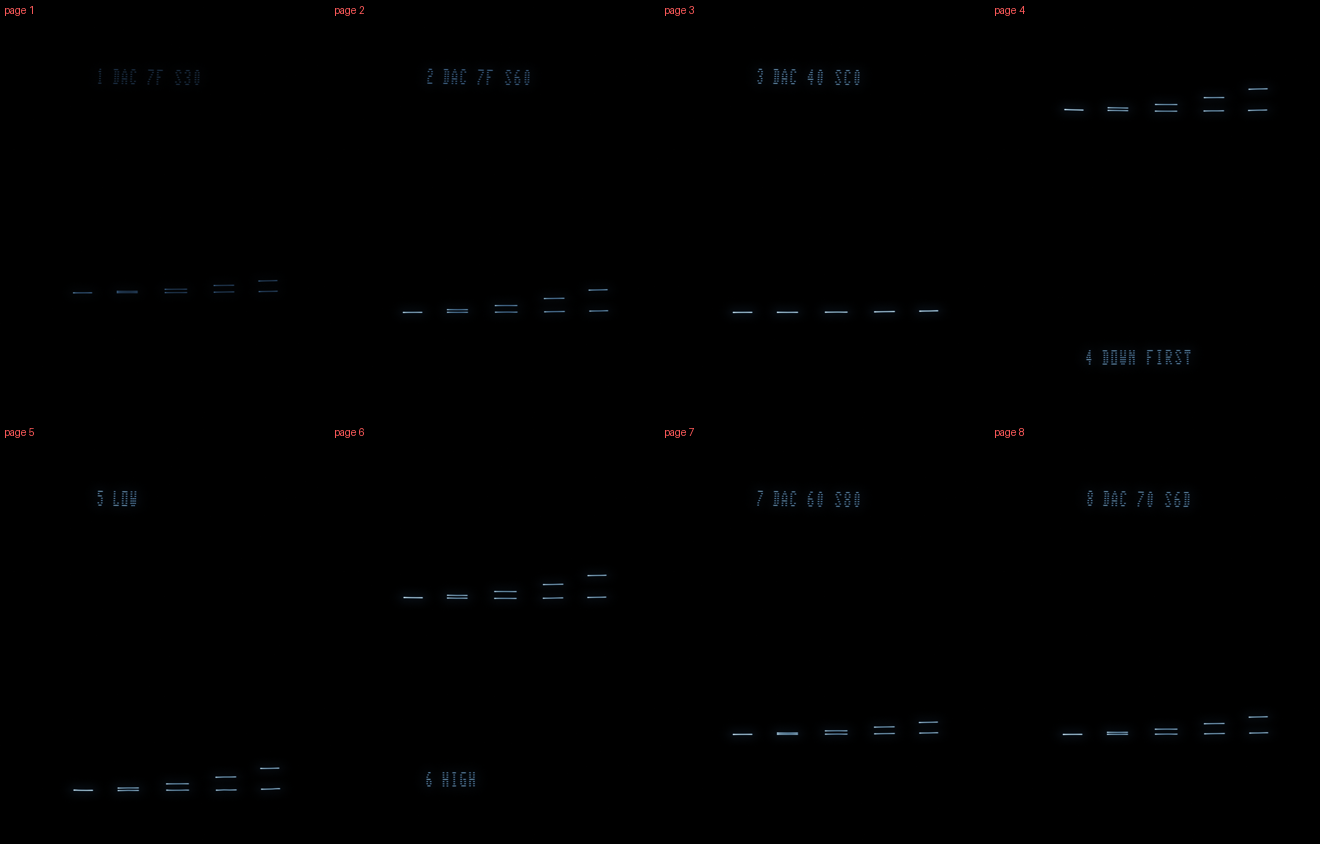
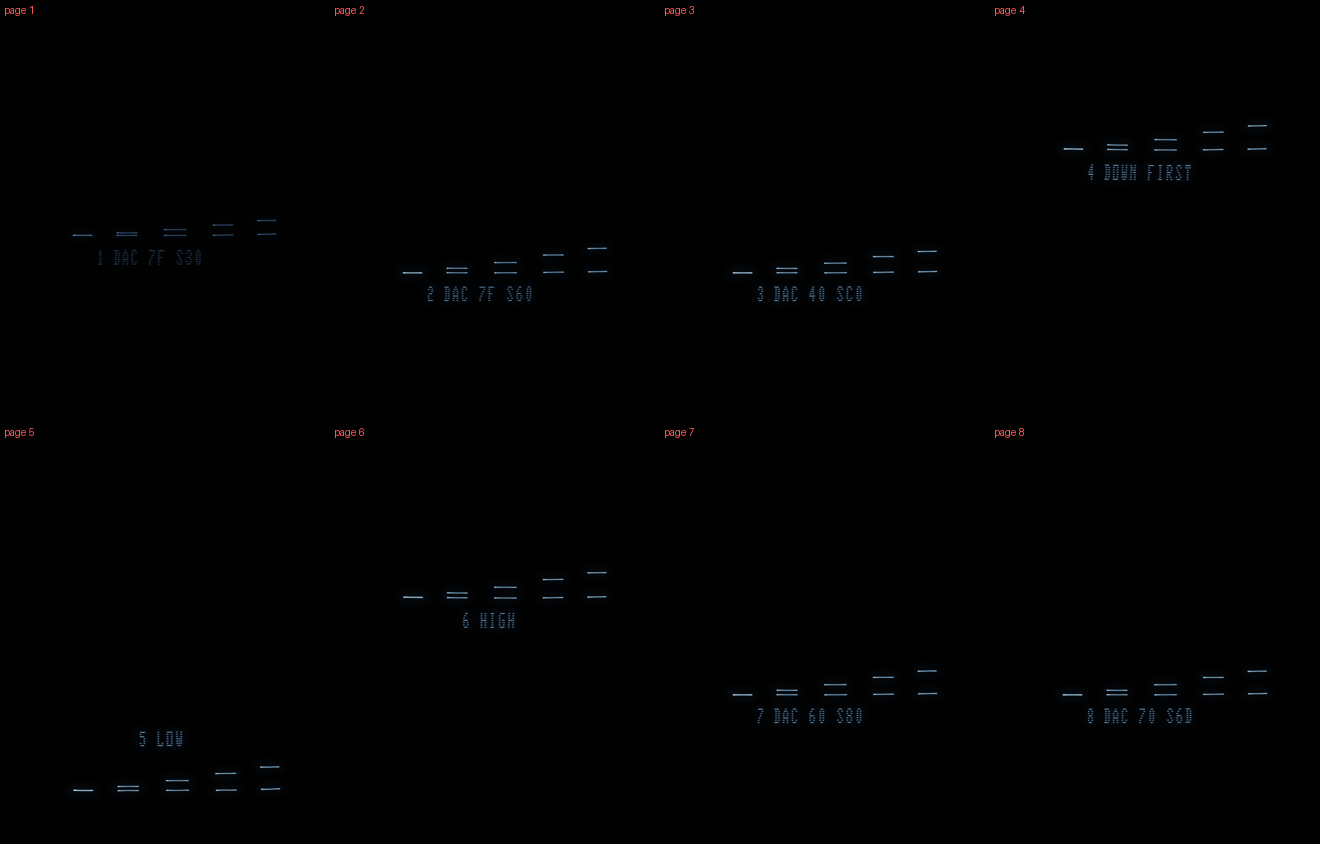
Updown Test for the camera (the owner): the trips centred on the screen's middle, where the photo is sharpest (pages 1-4, 7, 8; 5 and 6 stay low and high - their point), each page's label centred right under its ticks (above them on the low page). Every page still within a 50 Hz frame (21600 - 27800

diff --git a/testcart/make_updown_test.py b/testcart/make_updown_test.py
@@ -22,14 +22,14 @@ CNT = 0xC884                          # the round trips left (RAM)
 NS = (0, 2, 5, 10, 16)                # (every page within a 50 Hz frame, 30000 cycles: page 3 ~27000 - the owner photographs it)
 XS = (-0x50, -0x28, 0x00, 0x28, 0x50)
 PAGES = [  # (dac, scale, start y, label, text)
-    (0x7F, 0x30, -0x40, 'T1', 'DAC 7F S30'),
-    (0x7F, 0x60, -0x50, 'T2', 'DAC 7F S60'),
-    (0x40, 0xC0, -0x50, 'T3', 'DAC 40 SC0'),
-    (0x7F, 0x60, 0x50, 'T4', 'DOWN FIRST'),
+    (0x7F, 0x30, -0x12, 'T1', 'DAC 7F S30'),   # (the trips centred on the screen's middle, where the camera is sharpest - the
+    (0x7F, 0x60, -0x30, 'T2', 'DAC 7F S60'),   #  owner; 2: -48 .. +47)
+    (0x40, 0xC0, -0x30, 'T3', 'DAC 40 SC0'),
+    (0x7F, 0x60, 0x30, 'T4', 'DOWN FIRST'),
     (0x7F, 0x60, -0x7F, 'T5', 'LOW'),          # (page 2's trip low on the screen: -127 .. -32)
     (0x7F, 0x60, 0x1C, 'T6', 'HIGH'),          # (and high: +28 .. +123)
-    (0x60, 0x80, -0x50, 'T7', 'DAC 60 S80'),   # (page 2's distance at 3/4 speed)
-    (0x70, 0x6D, -0x50, 'T8', 'DAC 70 S6D'),   # (.. at 7/8 speed)
+    (0x60, 0x80, -0x30, 'T7', 'DAC 60 S80'),   # (page 2's distance at 3/4 speed)
+    (0x70, 0x6D, -0x30, 'T8', 'DAC 70 S6D'),   # (.. at 7/8 speed)
 ]
 
 
@@ -74,7 +74,9 @@ def build():
         ppage(p + 1)
         for i, (x, n) in enumerate(zip(XS, NS)):
             column(dac, scale, y0, x, n, '%d%d' % (p + 1, i))
-        text(label, 0x70 if y0 < 0 else -0x70, -0x40)
+        n = len('%d %s' % (p + 1, txt))         # (the label centred, right under the ticks - above them on the low page:
+        ty = y0 + 0x30 if y0 < -0x60 else y0 - 0x0C   #  one frame for the camera, the owner)
+        text(label, ty, -int(n * 10.4 / 2))
         w('        lbra    Main')
     page_table(len(PAGES))
     w('')
